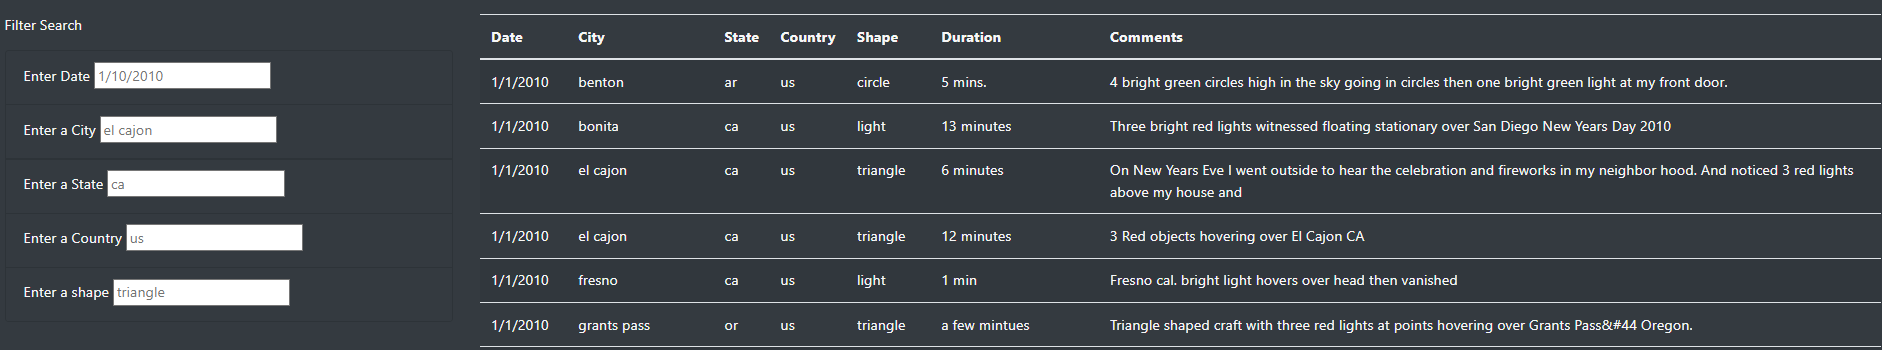
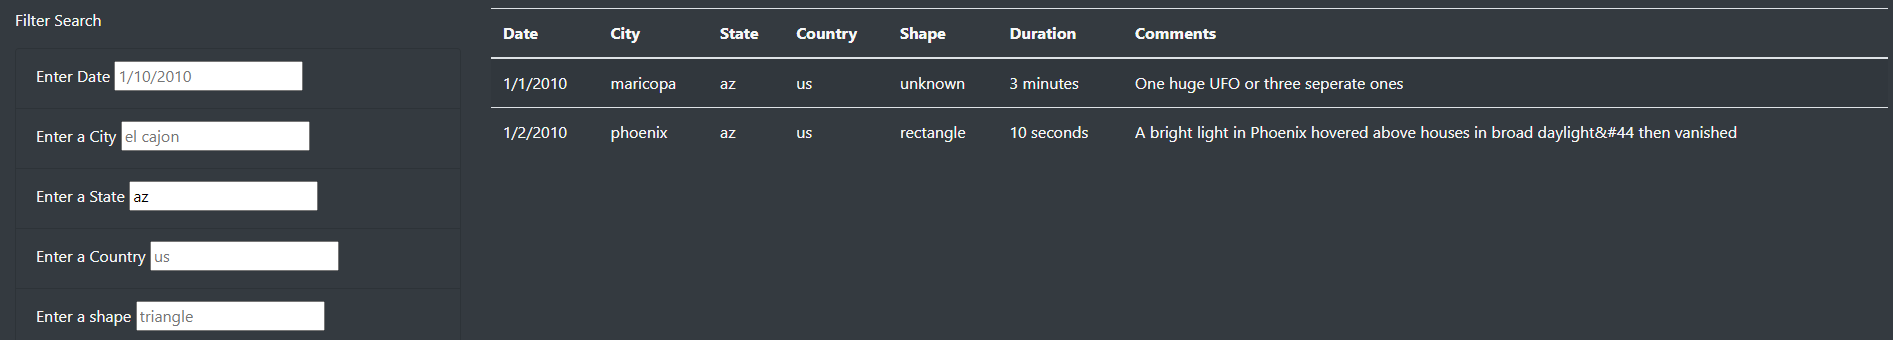
updating files

diff --git a/README.md b/README.md
@@ -2,20 +2,44 @@
 
 [link to deployed webpage](https://cpstell.github.io/UFOs/)
 
-## Project Overview
+## Project Overview:
 
 The purpose of this project is to build a UFO webpage for a hypothetical client. It consists of a dynamic table that allows users to filter on multiple criteria at the same time. 
 
-## Software
+## Software:
 
 * Bootstrap
 * HTML
 * CSS
 * JavaScript
 
-## Results
+## Results:
 
-![pic of Webpage](./static/css/images/Webpage.png)
+Welcome to UFO Sightings!
+
+![pic of Webpage](./static/images/Webpage.png)
+
+## The filter and its use:
+
+![pic of Webpage](./static/images/filtered_search.png)
+
+##### *Above is a completed search*
+
+To use, type in the filter over the placeholder element and press the return button. Please make sure everything is in lowercase and elimate any spaces at the end of the text. The output is a result of the various combinations of filters you chose to use.  To reset the filter simply refresh the page.
+
+## Summary
+
+### Drawback:
+
+Although the filters do work, the user must know specific dates, cities, states, countries, and shapes in order for it work correctly. Also, exact spelling with everything in lowerase is a must. For example, if you type "fresno" in the city filter it will work. If you capitalize "Fresno" you will not receive an output.
+
+### Recommendations:
+
+To make the webpage more user friendly I would include code for allowing both upper and lower case spelling. Also, the addition of drop down menus might be usefull to allow the user to see what is searchable under each filter.  
+
+
+
+
 
 
 
